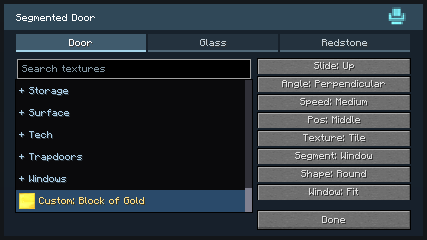
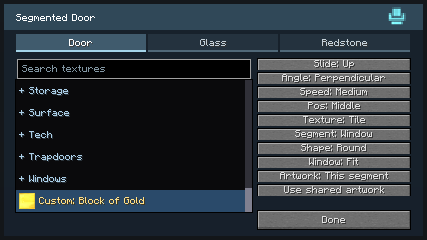
Prove per-cell Segmented artwork rendering and document scope controls

Changed region(s): [[0.5785, 0.2333, 0.9742, 0.8458]]

diff --git a/platforms/neoforge-1.21.1/src/smoke/java/com/vandorlabs/neoforge/NativeSegmentedTileRenderChecks.java b/platforms/neoforge-1.21.1/src/smoke/java/com/vandorlabs/neoforge/NativeSegmentedTileRenderChecks.java
@@ -20,9 +20,11 @@ import net.neoforged.neoforge.client.event.*;
 public final class NativeSegmentedTileRenderChecks {
  private static NativeSegmentedRenderer.Bake moving;private static NativeSegmentedTerrainModel.Bake terrain;private static NativeSegmentedVisual[] columns;private static int texture,alternate,frames,generation;private static int[] negative;private static boolean capture,done;
  private static final class Gallery extends net.minecraft.client.gui.screens.Screen { Gallery(){super(net.minecraft.network.chat.Component.literal("Segmented Tile"));} @Override public void render(net.minecraft.client.gui.GuiGraphics gui,int x,int y,float partial){} }
+ private static int warmSink;
+ private static void warm(){var meter=(com.sun.management.ThreadMXBean)java.lang.management.ManagementFactory.getThreadMXBean();meter.setThreadAllocatedMemoryEnabled(true);long thread=Thread.currentThread().threadId();for(int i=0;i<2000;i++)warmSink=moving.columnBytes(columns[1]);long builds=moving.meshBuilds(),before=meter.getThreadAllocatedBytes(thread);for(int i=0;i<10000;i++)warmSink=moving.columnBytes(columns[1]);long allocated=meter.getThreadAllocatedBytes(thread)-before;need(moving.meshBuilds()==builds&&allocated==0,"warm mixed-column lookup allocation="+allocated);System.out.println("[vandorlabs][segmented-tile] mixedColumnLookups=10000 allocated="+allocated+" newMeshes=0");}
  private static final int[] LIGHTS={0xf000f0,0xf000f0,0xf000f0};
  private static void need(boolean ok,String why){if(!ok)throw new AssertionError("Segmented Tile render: "+why);}
- private static void prepare(){var mc=Minecraft.getInstance();texture=-1;for(int i=0;i<ModernFinishCatalog.ENTRIES.size();i++)if(ModernFinishCatalog.ENTRIES.get(i).id().equals("company_door_pinnacle_light")){texture=i;break;}need(texture>=0,"actual tall company artwork");var materials=NativePanelPlaybackRenderer.currentBake();need(materials!=null,"active shared atlas generation");moving=new NativeSegmentedRenderer.Bake(materials,m->mc.getTextureAtlas(m.atlasLocation()).apply(m.texture()));var header=mc.getModelManager().getModel(ModelResourceLocation.standalone(NativeSegmentedTerrainModel.HEADER));terrain=new NativeSegmentedTerrainModel.Bake(Map.of(ModelResourceLocation.standalone(NativeSegmentedTerrainModel.HEADER),header),moving,mc.getResourceManager());alternate=-1;for(int i=0;i<ModernFinishCatalog.ENTRIES.size();i++)if(i!=texture&&ModernFinishCatalog.ENTRIES.get(i).id().startsWith("company_door_")&&NativeSegmentedDoorEntity.validTexture(i)&&Math.abs(moving.artwork(i).surface().aspect-.5)<1e-6){alternate=i;break;}need(alternate>=0,"second actual tall artwork");columns=new NativeSegmentedVisual[4];for(int column=0;column<4;column++){boolean window=(column&1)==0;var cfg=new NativeSegmentedDoorSettings(0,false,1,0,window,2,false,NativeSegmentedDoorSettings.DEFAULT.glass,0);columns[column]=new NativeSegmentedVisual(4,3,column,Direction.NORTH,texture,cfg,List.of(cfg,cfg,cfg),List.of(SegmentedWindowLayout.SINGLE,SegmentedWindowLayout.SINGLE,SegmentedWindowLayout.SINGLE),true,false,false,!window,false,List.of(texture,alternate,texture));for(int row=0;row<3;row++)terrain.quads(snapshot(column,row,false));}var body=moving.artwork(texture).surface();need(Math.abs(body.aspect-.5)<1e-6,"actual image aspect .5");}
+ private static void prepare(){var mc=Minecraft.getInstance();texture=-1;for(int i=0;i<ModernFinishCatalog.ENTRIES.size();i++)if(ModernFinishCatalog.ENTRIES.get(i).id().equals("company_door_pinnacle_light")){texture=i;break;}need(texture>=0,"actual tall company artwork");var materials=NativePanelPlaybackRenderer.currentBake();need(materials!=null,"active shared atlas generation");moving=new NativeSegmentedRenderer.Bake(materials,m->mc.getTextureAtlas(m.atlasLocation()).apply(m.texture()));var header=mc.getModelManager().getModel(ModelResourceLocation.standalone(NativeSegmentedTerrainModel.HEADER));terrain=new NativeSegmentedTerrainModel.Bake(Map.of(ModelResourceLocation.standalone(NativeSegmentedTerrainModel.HEADER),header),moving,mc.getResourceManager());alternate=-1;for(int i=0;i<ModernFinishCatalog.ENTRIES.size();i++)if(i!=texture&&ModernFinishCatalog.ENTRIES.get(i).id().startsWith("company_door_")&&NativeSegmentedDoorEntity.validTexture(i)&&Math.abs(moving.artwork(i).surface().aspect-.5)<1e-6){alternate=i;break;}need(alternate>=0,"second actual tall artwork");columns=new NativeSegmentedVisual[4];for(int column=0;column<4;column++){boolean window=(column&1)==0;var cfg=new NativeSegmentedDoorSettings(0,false,1,0,window,2,false,NativeSegmentedDoorSettings.DEFAULT.glass,0);columns[column]=new NativeSegmentedVisual(4,3,column,Direction.NORTH,texture,cfg,List.of(cfg,cfg,cfg),List.of(SegmentedWindowLayout.SINGLE,SegmentedWindowLayout.SINGLE,SegmentedWindowLayout.SINGLE),true,false,false,!window,false,List.of(texture,alternate,texture));for(int row=0;row<3;row++)terrain.quads(snapshot(column,row,false));}var body=moving.artwork(texture).surface();need(Math.abs(body.aspect-.5)<1e-6,"actual image aspect .5");warm();}
  private static NativeSegmentedTerrainSnapshot snapshot(int column,int row,boolean oldPhase){return new NativeSegmentedTerrainSnapshot(Direction.NORTH,row==1?alternate:texture,row==0,true,row==0,row==2,1,column,oldPhase?0:row);}
  @SubscribeEvent public static void draw(ScreenEvent.Render.Post event){if(done||!"true".equals(System.getenv("VANDOR_SEGMENTED_TILE_CHECK")) )return;var mc=Minecraft.getInstance();if(mc.getOverlay()!=null)return;if(event.getScreen() instanceof net.minecraft.client.gui.screens.TitleScreen){mc.setScreen(new Gallery());return;}if(!(event.getScreen() instanceof Gallery))return;if(moving==null)prepare();var gui=event.getGuiGraphics();gui.fill(0,0,mc.getWindow().getGuiScaledWidth(),mc.getWindow().getGuiScaledHeight(),0xff202830);gui.flush();var buffers=mc.renderBuffers().bufferSource();
   for(int scene=0;scene<2;scene++){var poses=gui.pose();poses.pushPose();try{poses.translate(10+scene*320,86,300);poses.scale(65,-65,65);for(int column=0;column<4;column++){poses.pushPose();try{poses.translate(column,0,0);boolean bodyTerrain=scene==1&&(column&1)!=0;if(!bodyTerrain)NativeSegmentedRenderer.renderAt(moving,columns[column],0,poses,buffers,LIGHTS,OverlayTexture.NO_OVERLAY);var consumer=buffers.getBuffer(NativePanelPlaybackRenderer.frameRenderType());if(bodyTerrain){for(int row=0;row<3;row++){poses.pushPose();try{poses.translate(0,-row,0);for(var quad:terrain.quads(snapshot(column,row,frames<5)))consumer.putBulkData(poses.last(),quad,1,1,1,1,0xf000f0,OverlayTexture.NO_OVERLAY,true);}finally{poses.popPose();}}}else{var header=new NativeSegmentedTerrainSnapshot(Direction.NORTH,texture,true,false,true,false,1,column,0);for(var quad:terrain.quads(header))consumer.putBulkData(poses.last(),quad,1,1,1,1,0xf000f0,OverlayTexture.NO_OVERLAY,true);}}finally{poses.popPose();}}}finally{poses.popPose();}buffers.endBatch();gui.flush();}

diff --git a/docs/segmented-doors.md b/docs/segmented-doors.md
@@ -20,7 +20,7 @@ Segmented Door sections form a sliding door with configurable travel. The defaul
 
    ![Door raised overhead](images/segmented-legacy-open.png)
 
-5. Use the Configurizer, or sneak-right-click, to open the dedicated configuration dialog. **Door** selects **Slide: Up / Down / Left / Right**, **Angle: Perpendicular / Straight**, **Speed: Slow / Medium / Fast**, and **Pos: Middle / Near / Far**, to the right of the artwork picker. Perpendicular turns the panels behind the opening; Straight keeps them in the door plane and leaves a one-pixel edge exposed when open. Artwork, travel, position and activation settings apply to the linked door. Right-click an option to cycle backwards.
+5. Use the Configurizer, or sneak-right-click, to open the dedicated configuration dialog. **Door** selects **Slide: Up / Down / Left / Right**, **Angle: Perpendicular / Straight**, **Speed: Slow / Medium / Fast**, and **Pos: Middle / Near / Far**, to the right of the artwork picker. Perpendicular turns the panels behind the opening; Straight keeps them in the door plane and leaves a one-pixel edge exposed when open. Travel, position, texture layout and activation settings apply to the linked door. Artwork has separate **This segment / All segments** scope. Right-click an option to cycle backwards.
 
    ![Segmented Door mechanism settings](images/segmented-mechanism-settings.png)
 
@@ -40,13 +40,13 @@ The server owns collision and the saved motion timeline. Sections remain native 
 
 ## Panel artwork
 
-Open **Door** to select general materials, Frame, Trapdoors, Doors or Large Doors artwork. Use **Custom...** to sample a block from your inventory without consuming it. Custom artwork is not reflected across neighbouring segments. **Texture: Tile / Stretch / Fit (aspect)** uses the same layout choices as Programmable Door. Selection applies to every section in the linked door. The original dark slatted panel remains the default; **Industrial → Segmented Panel** and **Segmented Panel Light Grey** expose its two finishes to other programmable blocks too. The original artwork is the standalone `segmented/segmented_panel.png` texture. Changing artwork preserves the door’s channels, motion and saved section ownership.
+Open **Door** to select general materials, Frame, Trapdoors, Doors or Large Doors artwork. Use **Custom...** to sample a block from your inventory without consuming it. Custom artwork is not reflected across neighbouring segments. **Texture: Tile / Stretch / Fit (aspect)** uses the same layout choices as Programmable Door. **Artwork: This segment** changes only the block whose dialog you opened. Select **All segments** to replace artwork across the linked door and clear individual overrides. **Use shared artwork** resets the selected block to the shared choice. Old doors without overrides keep their original artwork. The original dark slatted panel remains the default; **Industrial → Segmented Panel** and **Segmented Panel Light Grey** expose its two finishes to other programmable blocks too. The original artwork is the standalone `segmented/segmented_panel.png` texture. Changing artwork preserves the door’s channels, motion and saved section ownership.
 
 ![Segmented Door artwork and window controls](images/segmented-door-window-settings.png)
 
 ## Window segments
 
-1. Configure the specific block you want to change. Opening shape, Window Tile/Fit and glass settings belong to that block; selecting artwork or Texture Tile/Stretch/Fit still applies across the linked door. To make a window row, configure each block in that row. On **Door**, change **Segment: Solid** to **Window**. Choose **Hexagon**, **Octagon**, **Square** or **Round**, using the same outlines as Programmable Porthole.
+1. Configure the specific block you want to change. Opening shape, Window Tile/Fit and glass settings belong to that block; artwork follows the **This segment / All segments** selector, while Texture Tile/Stretch/Fit still applies across the linked door. To make a window row, configure each block in that row. On **Door**, change **Segment: Solid** to **Window**. Choose **Hexagon**, **Octagon**, **Square** or **Round**, using the same outlines as Programmable Porthole.
 2. Choose **Window: Tile** to fit the opening to the selected section, or **Fit** to share an opening only with edge-connected Window sections of the same Shape. Solid sections, different shapes and gaps split the window group. Each panel still moves independently along the selected path.
 3. Open the **Glass** tab to choose the glass shade or replacement material and its tint. The Glass tab appears for Window segments and Frame artwork. Selecting glass for a Frame enables its square opening on the configured block. All tabs keep the same dialog dimensions.
 
@@ -69,3 +69,5 @@ Use a filled or empty bucket on either side to store or remove its fluid indepen
 The block, item and tile now use `vandorlabs:segmented_door`. Old door identifiers and saved field names are deliberately unsupported. Existing doors, items and snapshots using the former identifiers do not load; rebuild them with the current block. This also applies to saved vehicles or designs containing those doors.
 
 Middle-click and the Duplifier copy the complete segment configuration, including window shape, Fit/Tile, glass, artwork, motion and channel choices. They do not copy assembly identity or an active motion.
+
+Individual artwork is included in configured picking and copied settings. Tile uses the door’s existing column/row phase even when adjacent cells select different artwork; Window groups do not rescale the panel image. Segment bodies remain two pixels thick and the top border four pixels.

diff --git a/docs/development/segmented-cell-artwork.md b/docs/development/segmented-cell-artwork.md
@@ -10,10 +10,24 @@ Moving columns need immutable effective artwork per row. Settled terrain consume
 
 Configured picking, Programmer settings, Duplifier capture/application and copied-item recipes must retain the optional local override whenever they retain existing Segmented Door configuration. Unrelated settings edits retain local choices. An explicit All segments artwork action intentionally clears overrides, preserving the existing whole-door application behavior; resetting This segment restores inheritance. Dedicated configuration and Configurizer use continue through the same menu and authorization path.
 
-The first portable scalar checkpoint verifies inherited versus explicit default choices and invalid-material refusal on Java 8 and Java 21. Host, transport, rendering and player acceptance are pending; this document does not claim those paths are implemented.
+The portable scalar checks verify inherited versus explicit default choices and invalid-material refusal on Java 8 and Java 21.
 
 ## Transport bounds
 
 Operations 0–5 retain their original encodings. Operation 6 sets the current menu cell override and uses 12 + 4N bytes; operation 7 resets it to inheritance and uses 8 + 4N bytes, for N channels (0–64). The existing combined settings command uses 27 + 4N bytes. No grid-sized allocation is accepted by the new operations; decoders reject extra bytes and validate the single material against the existing catalog predicate. Both versions round-trip the appended commands and retain the original 4,672-profile settings digest.
 
-Implementation is staged on the feature branch. Persistence, configured choices, appended commands and artwork-aware moving/terrain projections are present; actual placed-player editing, copy/recipe round trips, reload rendering and allocation acceptance remain pending.
+## Focused acceptance
+
+Both versions retain the original 4,672-profile settings digest. Source tile checks cover absent/default choices, configured items, save/load, inheritance reset, malformed types and bounded command round trips. The actual Source player focus passes the dedicated dialog, Configurizer path, local custom-inventory artwork packet, copied local override and configured pick, 13,077 runtime assertions, the existing 11,520 rendered profiles and 96 additional mixed-cell cache/UV profiles across facings, travel directions and solid/window rows.
+
+Native title widgets pass 306 checks covering both scope labels, local/global/reset operations, reverse cycling, invalid drafts, picker scrolling/dragging, resize and reload. Canonical installed-menu tests verify distinct row choices, reset locality, whole-door replacement, per-row immutable publication, configured picking, actual copied-world commit and copied-item conversion. A fresh process retains the distinct choices after eight mechanism configurations and save/restart. All previous 72 canonical Source layouts remain covered.
+
+Actual native moving/window and settled-terrain consumers produce zero differing pixels with two different tall artworks in one column, before and after resource reload. The incorrect-row-phase control changes 33,550 pixels. Each resource generation performs 10,000 warm mixed-column lookups with zero allocated bytes and zero new meshes; this is a cache-lookup measurement, not complete-frame allocation or hardware FPS acceptance. Images and both dialog layouts were inspected.
+
+Source uniform columns retain the existing compact fast key. Mixed columns include every effective cell choice in their exact cache guards. The existing row-validation pass determines whether artwork is uniform, and feature-cache checks reuse one member lookup per row. Retained template/column estimates reserve an additional 144 bytes each for the maximum 32-entry artwork array within the existing cache budgets. Native immutable per-row choices remain bounded by height 32 and share the existing byte-bounded prepared column caches. Resource reload and world unload use the existing retirement paths.
+
+Generic configured-item and Duplifier projections flow through the existing Segmented Door configuration envelope. The standalone Card/Chip Programmer has no Segmented Door texture-specific schema; its generic retained credential/settings envelopes are unchanged. No Vehicle operation is added.
+
+The reached Dynmap suite passes 1,464,527 assertions, and dedicated-server linkage passes 1,398 shared classes and 132,662 references.
+
+These checks do not constitute a release gate, production-server action or shader-pack/hardware performance claim.

diff --git a/CHANGELOG.md b/CHANGELOG.md
@@ -4,6 +4,9 @@
 
 - Remove repeated allocation from Forge Glass/Porthole UV-cache hits, bound retained source/mapped geometry by bytes and clear old atlas entries on resource reload and world unload.
 - Prepare native Light facing and atlas coordinates once per cached mesh, reduce retained vertex storage and reuse the common prepared-vertex emitter while preserving live lighting and reload behavior.
+
+- Select artwork for individual Segmented Door cells in both versions. The dedicated dialog distinguishes This segment from All segments, supports resetting to shared artwork, and retains local choices through configured picking, copied settings, recipes and reload.
+
 - Enable all eleven standalone Canopy and cockpit-glass components in the experimental native build with original recipes, configured placement, dedicated editing, joined shells, pause-aware motion, source-matched terrain/transparent artwork and safe loaded membership repair. Add staged native construction images. Vehicle/carried integration remains deferred.
 - Keep Segmented Door Tile artwork continuous across solid and Window segments in both versions. Make segment bodies two pixels thick while retaining four-pixel top borders, matching selection, collision, fluids and settled terrain rendering.
 

diff --git a/docs/versions/version-2.9.md b/docs/versions/version-2.9.md
@@ -75,3 +75,5 @@ Segmented Door Tile artwork now retains the same physical scale and phase across
 Experimental native Lights now prepare fixed facing and atlas coordinates once per cached mesh, reducing retained vertex storage while preserving their rendered output. Live lighting and resource reload still update independently of that static preparation.
 
 Forge Glass and Porthole UV-cache hits now reuse scalar lookups without allocating temporary strings or boxed values. The cache also bounds retained geometry by bytes and retires old atlas entries on reload and world unload.
+
+Each Segmented Door block can now select its own artwork in both versions. Open the block’s dedicated dialog and choose **Artwork: This segment**; **All segments** replaces the linked door’s artwork and clears local overrides. **Use shared artwork** restores inheritance for that block. Existing saves retain their shared artwork, and configured picks and copied settings retain individual choices.
